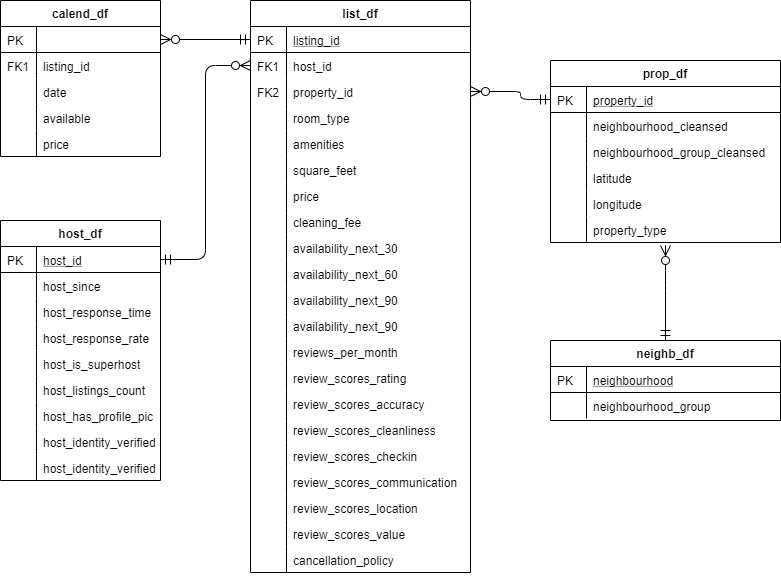
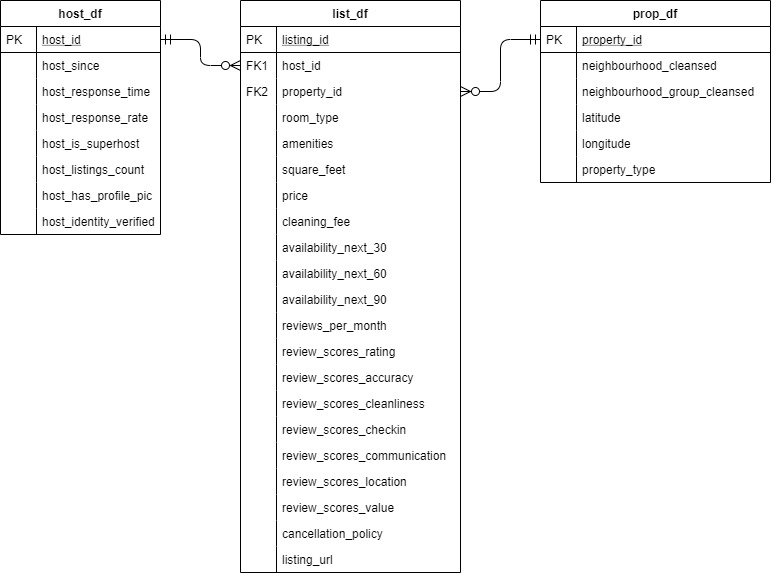
Final Update

diff --git a/data_cleaning.py b/data_cleaning.py
@@ -35,8 +35,6 @@ df1 = list_df.loc[:, ["listing_id", "host_id", "property_id", "room_type", "amen
                       "review_scores_cleanliness", "review_scores_checkin", "review_scores_communication",
                       "review_scores_location", "review_scores_value", "cancellation_policy", "listing_url"]]
 
-df2 = calend_df.loc[:, ["listing_id", "date", "available", "price"]]
-
 df3 = host_df.loc[:, ["host_id", "host_since", "host_response_time", "host_response_rate", "host_is_superhost",
                       "host_listings_count", "host_has_profile_pic", "host_identity_verified"]]
 df3.drop_duplicates(inplace=True)

diff --git a/README.md b/README.md
@@ -1,1 +1,4 @@
 # DV_project
+The project objective is to use visualization concepts and techniques to transform data into a meaningful interactive dashboard that allows the final user to make well-informed decisions.
+The data used in our project comes from Inside Airbnb, a website that provides scrapped data from Airbnb. The data used concerns the Airbnb listings of Lisbon for the month of June 2019. The variables’ metadata is available under the data folder in the metadata file.
+In order to reach our objective, the project was developed and implemented using Python, particularly Plotly with Dash software.
